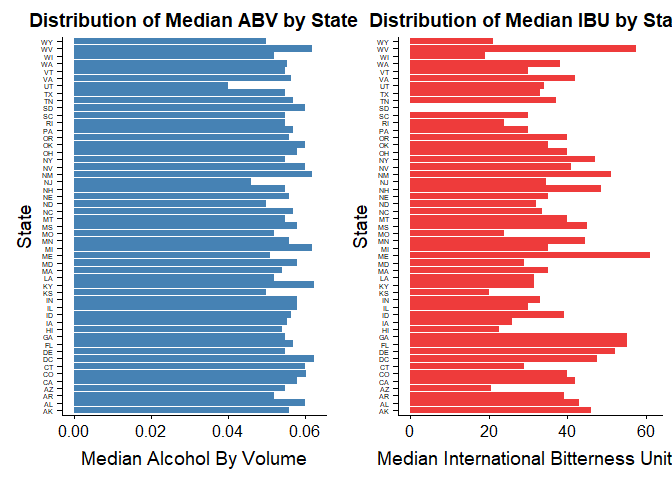
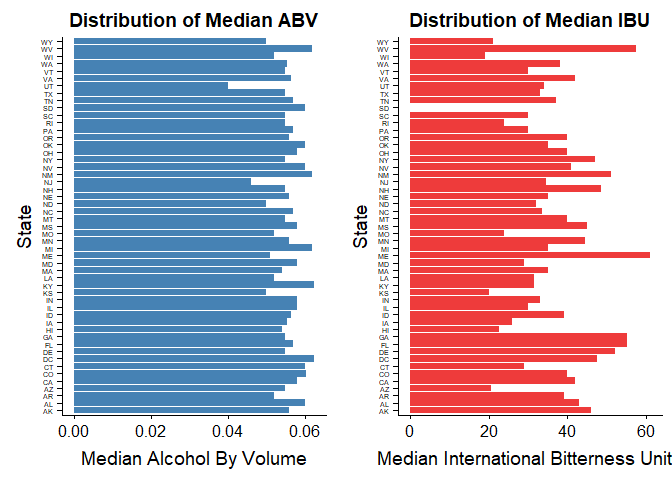
updated rmd, moved CSVs to Data folder

Changed region(s): [[0.0312, 0.0, 1.0, 0.0625]]

diff --git a/Analysis.html b/Analysis.html
@@ -583,7 +583,7 @@ plot1 &lt;- ggplot(abv_ibu, aes(x = State, y = ABV)) +
   geom_bar(stat = &quot;identity&quot;, fill=&quot;steelblue&quot;) +
   coord_flip() +
   xlab(&quot;State&quot;) + ylab(&quot;Median Alcohol By Volume&quot;) + 
-  ggtitle(&quot;Distribution of Median ABV by State&quot;) +
+  ggtitle(&quot;Distribution of Median ABV&quot;) +
   theme(axis.text.y = element_text(size = 5))
 
 # Creates Bar Chart Ditributions of International Bitterness Units
@@ -591,10 +591,10 @@ plot2 &lt;- ggplot(abv_ibu, aes(x = State, y = IBU)) +
   geom_bar(stat = &quot;identity&quot;, fill=&quot;brown2&quot;) + 
   coord_flip() +
   xlab(&quot;State&quot;) + ylab(&quot;Median International Bitterness Units&quot;) + 
-  ggtitle(&quot;Distribution of Median IBU by State&quot;) + 
+  ggtitle(&quot;Distribution of Median IBU&quot;) + 
   theme(axis.text.y = element_text(size = 5))
 plot_grid(plot1, plot2)</code></pre>
[2 lines of base64/hex data omitted]
 </div>
 </div>
 </div>
@@ -648,8 +648,8 @@ summary(na.omit(beers$ABV))</code></pre>
 </div>
 <div id="question-of-interest-7" class="section level1">
 <h1>Question of Interest 7</h1>
-<div id="scatterplot-of-the-relationship-between-ibu-and-abv" class="section level2">
-<h2>ScatterPlot of the Relationship Between IBU and ABV</h2>
+<div id="scatter-plot-of-the-relationship-between-ibu-and-abv" class="section level2">
+<h2>Scatter Plot of the Relationship Between IBU and ABV</h2>
 <pre class="r"><code>pp&lt;- ggplot(beers, aes(x=ABV, y=IBU)) +
   geom_point(aes(col=IBU, size=ABV)) +
   geom_smooth(method=&quot;loess&quot;, se=F) +

diff --git a/Analysis.md b/Analysis.md
@@ -298,7 +298,7 @@ plot1 <- ggplot(abv_ibu, aes(x = State, y = ABV)) +
   geom_bar(stat = "identity", fill="steelblue") +
   coord_flip() +
   xlab("State") + ylab("Median Alcohol By Volume") + 
-  ggtitle("Distribution of Median ABV by State") +
+  ggtitle("Distribution of Median ABV") +
   theme(axis.text.y = element_text(size = 5))
 
 # Creates Bar Chart Ditributions of International Bitterness Units
@@ -306,7 +306,7 @@ plot2 <- ggplot(abv_ibu, aes(x = State, y = IBU)) +
   geom_bar(stat = "identity", fill="brown2") + 
   coord_flip() +
   xlab("State") + ylab("Median International Bitterness Units") + 
-  ggtitle("Distribution of Median IBU by State") + 
+  ggtitle("Distribution of Median IBU") + 
   theme(axis.text.y = element_text(size = 5))
 plot_grid(plot1, plot2)
 ```
@@ -384,7 +384,7 @@ summary(na.omit(beers$ABV))
 ```
 
 # Question of Interest 7 
-## ScatterPlot of the Relationship Between IBU and ABV
+## Scatter Plot of the Relationship Between IBU and ABV
 
 ```r
 pp<- ggplot(beers, aes(x=ABV, y=IBU)) +
